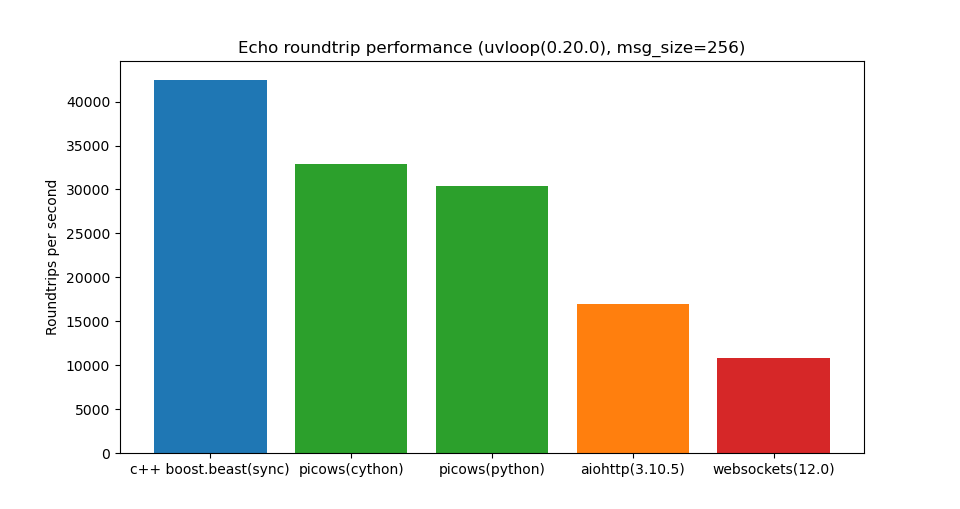
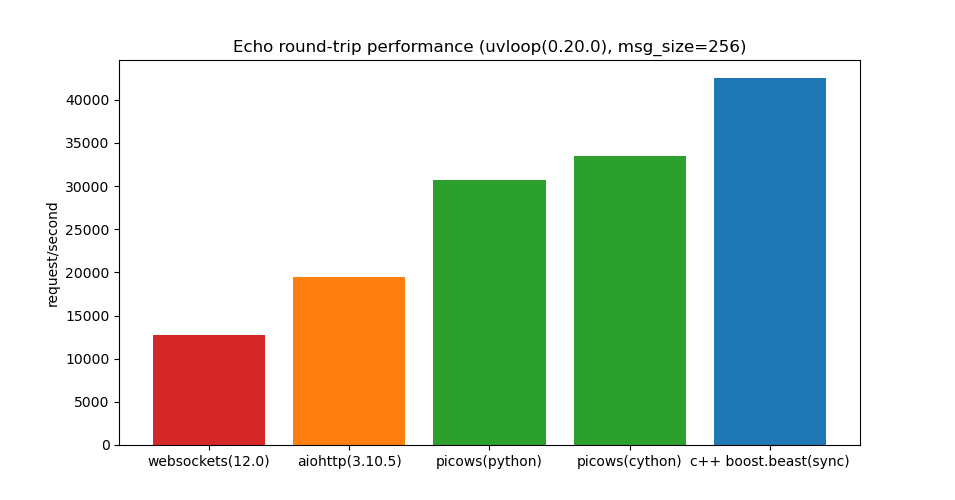
Reverse order in the benchmark

diff --git a/examples/echo_client_benchmark.py b/examples/echo_client_benchmark.py
@@ -16,9 +16,7 @@ from time import time
 _logger = getLogger(__name__)
 
 
-RPS = {
-    "c++ boost.beast(sync)": 42489
-}
+RPS = {}
 
 
 def create_client_ssl_context():
@@ -137,6 +135,10 @@ if __name__ == '__main__':
 
     ssl_context = create_client_ssl_context() if args.url.startswith("wss://") else None
 
+    asyncio.run(websockets_main(args.url, msg, duration, ssl_context))
+    asyncio.run(aiohttp_main(args.url, msg, duration, ssl_context))
+    asyncio.run(picows_main(args.url, msg, duration, ssl_context))
+
     try:
         from examples.echo_client_cython import picows_main_cython
         picows_cython_rps = asyncio.run(picows_main_cython(args.url, msg, duration, ssl_context))
@@ -144,9 +146,7 @@ if __name__ == '__main__':
     except ImportError:
         pass
 
-    asyncio.run(picows_main(args.url, msg, duration, ssl_context))
-    asyncio.run(aiohttp_main(args.url, msg, duration, ssl_context))
-    asyncio.run(websockets_main(args.url, msg, duration, ssl_context))
+    RPS["c++ boost.beast(sync)"] = 42489
 
     for k, v in RPS.items():
         print(k, v)
@@ -158,12 +158,12 @@ if __name__ == '__main__':
 
         libraries = list(RPS.keys())
         counts = list(RPS.values())
-        bar_colors = ['tab:blue', 'tab:green', 'tab:green', 'tab:orange', 'tab:red']
+        bar_colors = ['tab:red', 'tab:orange', 'tab:green', 'tab:green', 'tab:blue']
 
         ax.bar(libraries, counts, label=libraries, color=bar_colors)
 
-        ax.set_ylabel('Roundtrips per second')
-        ax.set_title(f'Echo roundtrip performance ({loop_name}, msg_size={msg_size})')
+        ax.set_ylabel('request/second')
+        ax.set_title(f'Echo round-trip performance ({loop_name}, msg_size={msg_size})')
 
         # ax.legend(title="Libraries")
 
